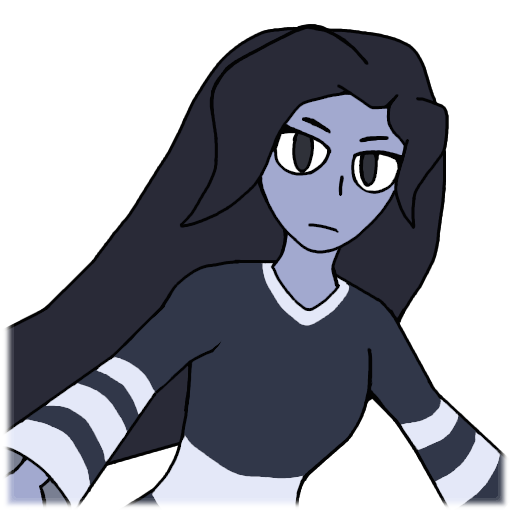
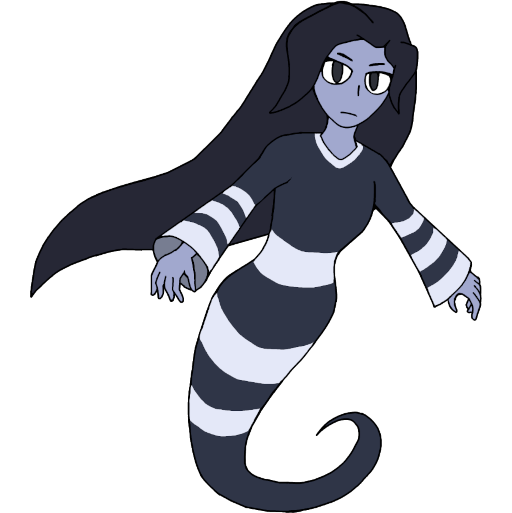
Updated Character Prompts, Set Custom Challenger UI Colours
I updated the challenger prompts to use the full renders. I also set custom colours for each character to use for the UI. The text is readable, so hopefully the custom colours shouldn't be a problem for the client.

I also added a higher resolution render of the tutorial character to use on the results screen.

diff --git a/Assets/Scripts/Gameplay/World/UI/ChallengerUI.cs b/Assets/Scripts/Gameplay/World/UI/ChallengerUI.cs
@@ -19,8 +19,22 @@ namespace RM_EM
         // The index of the challenger.
         public int challengerIndex = -1;
 
+        [Header("Images")]
+
         // The renderer of the challenger art.
         public Image challengerRenderer;
+
+        // The background of the UI.
+        public Image background;
+
+        // The default colour.
+        public Color defaultBgClr = new Color(0.7009641F, 0.08330365F, 0.8490566F);
+
+        // If set to 'true', the default colour is autoset.
+        public bool autoSetDefaultBgClr = true;
+
+        // If set to 'true', the background's colour changes based on the challenger.
+        public bool useCustomBgClr = true;
 
         [Header("Text")]
 
@@ -47,6 +61,18 @@ namespace RM_EM
         // Decline Button
         public Button declineButton;
 
+
+        // Awake is called when the script instance is being loaded
+        private void Awake()
+        {
+            // If the default BG colour should be autoset...
+            if(autoSetDefaultBgClr && background != null)
+            {
+                // Sets the BG color.
+                defaultBgClr = background.color;
+            }
+        }
+
         // Start is called before the first frame update
         void Start()
         {
@@ -62,6 +88,7 @@ namespace RM_EM
         //    EnableButtons();
         //}
 
+        // TODO: add clear challenger option?
         // Sets the challenger.
         public void SetChallenger(ChallengerWorld newChallenger, int index)
         {
@@ -88,6 +115,17 @@ namespace RM_EM
             // This isn't efficient, but I'm not sure if I want to delete everything. I probably should.
             // TODO: remove the old system to optimize how this is set.
             vsChallengerText.text = versus + " " + chalName;
+
+            
+            // Should a custom colour be used, and are the assets set?
+            if(useCustomBgClr && background != null && challenger != null)
+            {
+                background.color = challenger.challengerColour;
+            }
+            else
+            {
+                background.color = defaultBgClr;
+            }
         }
 
         // Updates the Challenger Sprite

diff --git a/Assets/Scripts/Gameplay/World/Players/ChallengerWorld.cs b/Assets/Scripts/Gameplay/World/Players/ChallengerWorld.cs
@@ -22,6 +22,9 @@ namespace RM_EM
         [Tooltip("The sprite for the challenge prompt.")]
         public Sprite challengeSprite;
 
+        // The challenger's colour (defaults to challenger UI BG colour)
+        public Color challengerColour = new Color(0.7009641F, 0.08330365F, 0.8490566F);
+
         [Header("Info")]
 
         // The challenger's name.
